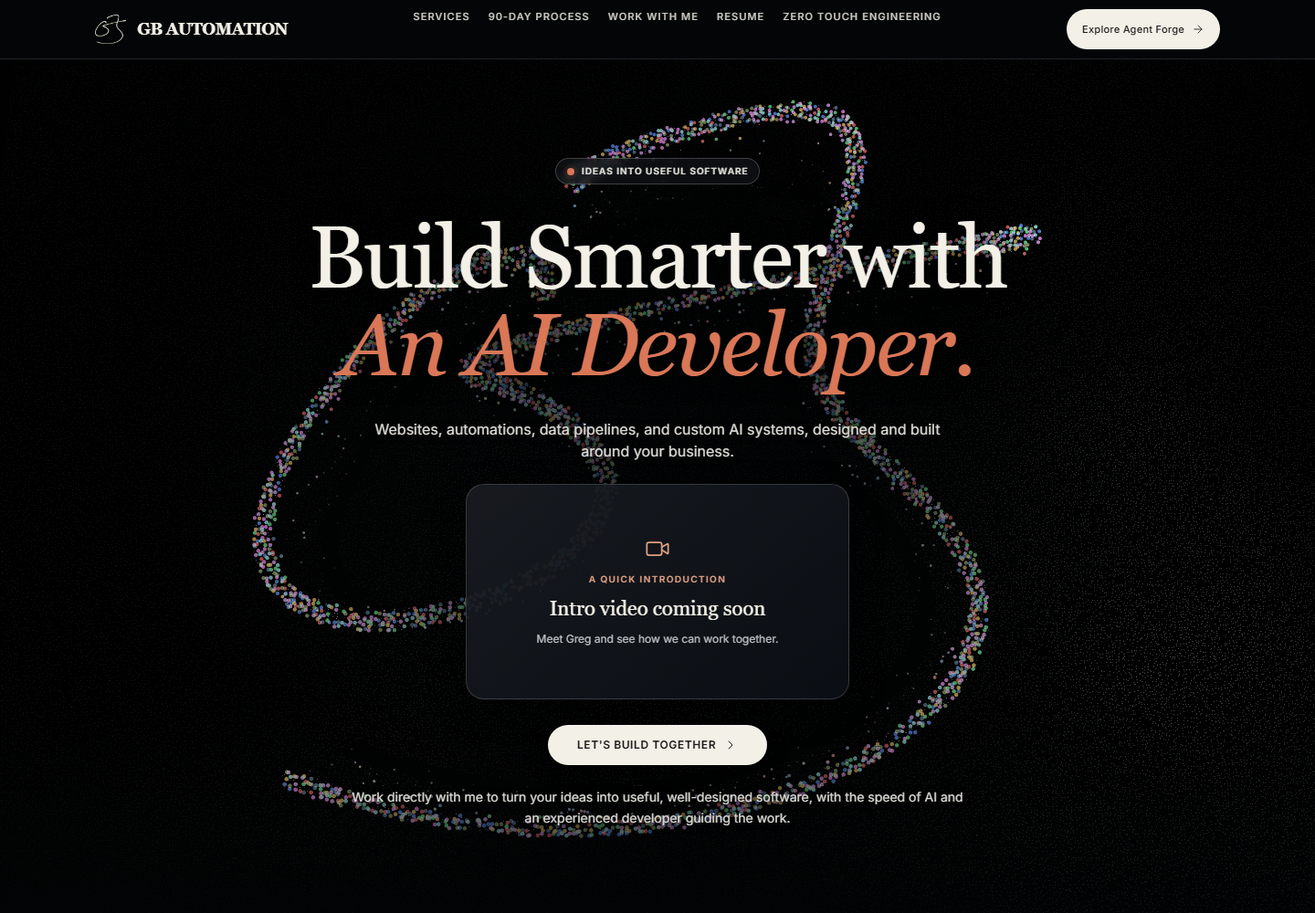
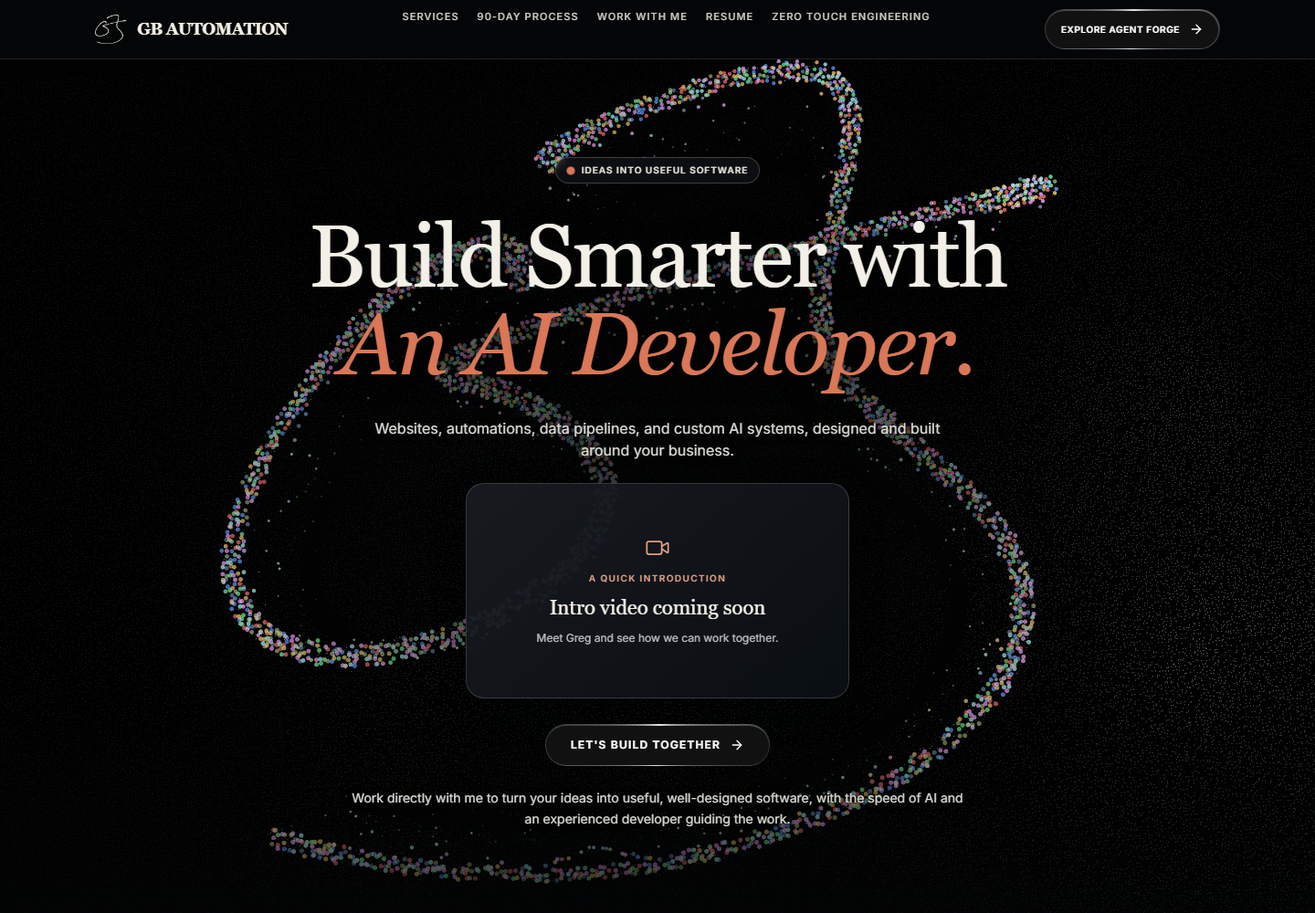
Add monochrome animated CTAs and publishable Forge workspace preview

diff --git a/public/forge/app.js b/public/forge/app.js
@@ -1,5 +1,6 @@
 'use strict';
 const $=id=>document.getElementById(id),app=$('app');
+const previewOnly=window.FORGE_PREVIEW_ONLY===true;
 const e=x=>String(x??'').replace(/[&<>"']/g,c=>({'&':'&amp;','<':'&lt;','>':'&gt;','"':'&quot;',"'":'&#39;'}[c]));
 let token=sessionStorage.getItem('forge.session')||'',catalog=[],local=false,live=false,operatorEmail='',draft=null,step=0,answers={},business={summary:'',website:null},email='',pendingKey=null,pollTimer;
 let initial=true,questions=[],loginMode='create',identity=null;
@@ -11,7 +12,21 @@ function notice(error){if(error.message==='unauthorized'){loginMode=draft?'resum
 function focus(){app.focus();window.scrollTo({top:0,behavior:'instant'});}
 function button(id,fn){$(id)?.addEventListener('click',async ev=>{const b=ev.currentTarget;b.disabled=true;try{await fn();}catch(err){notice(err);if(err.message==='version_conflict'&&draft){draft=await api({action:'read',draft_id:draft.draft_id});showDraft();}}finally{b.disabled=false;}});}
 function stash(){if(initial)sessionStorage.setItem('forge.initial',JSON.stringify({business,answers,step}));}
-function landing(){clearTimeout(pollTimer);app.innerHTML=`<div class="hero"><div><p class="eyebrow">YOUR BUSINESS. YOUR AI TEAM.</p><h1>What if the right team was already taking shape?</h1><p class="lead">Tell us what slows your business down. We’ll design an AI team around it, with clear roles, a practical workflow, and a plan for getting started.</p><button id="start">Design my AI team <span aria-hidden="true">↗</span></button><div class="meta"><span>A short business brief</span><span>Up to two focused follow-ups</span><span>Free design by email</span></div></div><aside class="sample" aria-label="Example team design"><p class="eyebrow">EXAMPLE / A SERVICE BUSINESS</p><h2>Every follow-up, accounted for.</h2><article><span class="number">01</span><strong>Workflow coordinator</strong><small>Organizes open requests and prepares next steps.</small></article><article><span class="number">02</span><strong>Quality reviewer</strong><small>Checks the draft before your team acts.</small></article><p class="hint">Your design includes proposed roles, handoffs, assumptions and a draft configuration. Connections and activation come later.</p></aside></div>`;button('start',()=>{initial=true;questions=catalog;step=0;wizard();});focus();}
+function landing(){clearTimeout(pollTimer);app.innerHTML=`<div class="hero"><div><p class="eyebrow">YOUR BUSINESS. YOUR AI TEAM.</p><h1>What if the right team was already taking shape?</h1><p class="lead">Tell us what slows your business down. We’ll design an AI team around it, with clear roles, a practical workflow, and a plan for getting started.</p><button id="start" class="animated-cta"><span class="animated-cta-shimmer" aria-hidden="true"></span><span class="animated-cta-label">Design my AI team <span aria-hidden="true">↗</span></span></button><div class="meta"><span>A short business brief</span><span>Up to two focused follow-ups</span><span>Free design by email</span></div></div><aside class="sample" aria-label="Example team design"><p class="eyebrow">EXAMPLE / A SERVICE BUSINESS</p><h2>Every follow-up, accounted for.</h2><article><span class="number">01</span><strong>Workflow coordinator</strong><small>Organizes open requests and prepares next steps.</small></article><article><span class="number">02</span><strong>Quality reviewer</strong><small>Checks the draft before your team acts.</small></article><p class="hint">Your design includes proposed roles, handoffs, assumptions and a draft configuration. Connections and activation come later.</p></aside></div><section class="workspace-overview" id="forge-windows" aria-labelledby="forge-windows-heading"><p class="eyebrow">INSIDE THE WORKSPACE</p><h2 id="forge-windows-heading">A window for every part of the work.</h2><p class="workspace-intro">Explore the 13 windows in the Agent Forge workspace design. Your free intake creates a team design and configuration preview. Connecting tools and activating the workspace come afterward.</p><ul class="workspace-window-list"><li><strong>Skills Library</strong><span>The capabilities this expert can use.</span></li><li><strong>Justfile Commands</strong><span>Real recipes, inputs, and sample execution.</span></li><li><strong>Agent Presence</strong><span>The selected expert and its configured avatar.</span></li><li><strong>Conversation</strong><span>A focused conversation with the expert.</span></li><li><strong>Working Canvas</strong><span>The document or preview currently in focus.</span></li><li><strong>Proposals</strong><span>Review suggested work before it begins.</span></li><li><strong>Setup &amp; Quality Checks</strong><span>Configuration completeness and verification evidence.</span></li><li><strong>Expert Configuration</strong><span>Purpose, model, operating limits, and instructions.</span></li><li><strong>Second Brain</strong><span>Context, saved decisions, and source documents.</span></li><li><strong>Tasks &amp; Workstream</strong><span>An expert-scoped view of work and dependencies.</span></li><li><strong>Artifacts</strong><span>Find outputs and the sources behind them.</span></li><li><strong>Run Console</strong><span>Follow command output and execution history.</span></li><li><strong>Changes &amp; Approvals</strong><span>Compare and review the exact proposed change.</span></li></ul></section>`;button('start',()=>{initial=true;questions=catalog;step=0;wizard();});focus();}
+function preview(){
+ landing();
+ $('resume').hidden=true;
+ $('operator-link').hidden=true;
+ $('preview-banner').textContent='Agent Forge preview. Automated team design and email delivery are coming soon.';
+ $('preview-banner').hidden=false;
+ app.querySelector('h1').textContent='A workspace built around your AI team.';
+ app.querySelector('.lead').textContent='Explore how Agent Forge brings expert roles, shared context, and practical workflows together. For a team designed around your business, start a conversation with Greg.';
+ $('start').outerHTML='<a class="animated-cta" href="/#contact"><span class="animated-cta-shimmer" aria-hidden="true"></span><span class="animated-cta-label">Talk about your AI team <span aria-hidden="true">↗</span></span></a>';
+ app.querySelector('.meta').innerHTML='<span>Expert roles</span><span>Connected workflows</span><span>Configuration preview</span>';
+ app.querySelector('.sample .hint').textContent='An example of proposed roles and handoffs. A tailored design and tool connections are part of a future onboarding conversation.';
+ app.querySelector('.workspace-intro').textContent='Explore the 13 windows in the Agent Forge workspace design, from expert configuration to reviewing the work your team produces.';
+ $('retention-note').textContent='Workspace preview · No intake data collected';
+}
 function wizard(){clearTimeout(pollTimer);const total=questions.length+(initial?1:0),q=initial&&step===0?null:questions[step-(initial?1:0)];const value=q?answers[q.question_id]||'':business.summary;const round=draft?Math.min(3,draft.usage.submitted_batches+1):1;
  app.innerHTML=`<section class="wizard"><div class="step-label"><span>Round ${round} of up to 3</span><span>Question ${step+1} of ${total}</span></div><div class="progress"><span style="width:${100*(step+1)/total}%"></span></div><p class="eyebrow">${q?'SHAPE YOUR TEAM':'A LITTLE CONTEXT'}</p><h1>${q?e(labels[q.question_id]||q.label):'Tell us a little about your business.'}</h1><p>${q?e(q.reason):'What do you do, and who do you help? A few sentences is plenty.'}</p><label for="answer">${q?'Your answer':'Business description'}</label><textarea id="answer" maxlength="2000" placeholder="A short description is enough…">${e(value)}</textarea>${!q?`<label for="website">Company website <span class="hint">(optional)</span></label><input id="website" type="url" value="${e(business.website)}" placeholder="https://example.com">`:`<div class="choices">${q.choices.map((x,i)=>`<button class="choice" data-choice="${i}">${e(x.length>75?x.slice(0,72)+'…':x)}</button>`).join('')}<button id="unknown" class="choice">I’m not sure</button></div>`}<p class="hint">Describe your work and tools. Please leave out passwords, access tokens and sensitive customer records.</p><div class="actions"><button id="back" class="quiet">Back</button><button id="next">${step===total-1?'Review answers':'Continue'} →</button></div></section>`;
  const capture=()=>{if(q)answers[q.question_id]=$('answer').value.trim();else{business.summary=$('answer').value.trim();business.website=$('website').value.trim()||null;}stash();};
@@ -38,4 +53,4 @@ async function result(){clearTimeout(pollTimer);const artifact=await api({action
  button('delete',async()=>{if(!confirm('Delete this saved design and its answers? Your free-design allowance remains until its 30-day window expires.'))return;await api({action:'delete',draft_id:draft.draft_id});draft=null;landing();});focus();}
 async function resume(){if(!token){loginMode='resume';login();return;}identity=await api({action:'session'});const drafts=await api({action:'list'});const id=location.pathname.startsWith('/forge/designs/')?location.pathname.split('/').pop():null;draft=id?drafts.find(d=>d.draft_id===id):drafts[0];if(draft)showDraft();else{notice(Error('not_found'));landing();}}
 $('resume').onclick=()=>{loginMode='resume';resume().catch(err=>{notice(err);login();});};
-(async()=>{try{const data=await api({action:'catalog'});catalog=data.questions;local=data.local_preview;live=!!data.live_pilot;operatorEmail=data.operator_email||'';if(live)$('preview-banner').textContent='Live pilot: real Gmail and OpenRouter. Limited to your test accounts.';$('preview-banner').hidden=!local;$('operator-link').hidden=!local;try{const saved=JSON.parse(sessionStorage.getItem('forge.initial'));if(saved){business=saved.business;answers=saved.answers;}}catch{}if(location.pathname==='/operator'){loginMode='operator';login();}else if(location.pathname.startsWith('/forge/designs/'))await resume();else landing();}catch(err){notice(err);app.innerHTML='<h1>The workshop is temporarily unavailable.</h1><p>Please try again shortly.</p>';}})();
+(async()=>{if(previewOnly){preview();return;}try{const data=await api({action:'catalog'});catalog=data.questions;local=data.local_preview;live=!!data.live_pilot;operatorEmail=data.operator_email||'';if(live)$('preview-banner').textContent='Live pilot: real Gmail and OpenRouter. Limited to your test accounts.';$('preview-banner').hidden=!local;$('operator-link').hidden=!local;try{const saved=JSON.parse(sessionStorage.getItem('forge.initial'));if(saved){business=saved.business;answers=saved.answers;}}catch{}if(location.pathname==='/operator'){loginMode='operator';login();}else if(location.pathname.startsWith('/forge/designs/'))await resume();else landing();}catch(err){notice(err);app.innerHTML='<h1>The workshop is temporarily unavailable.</h1><p>Please try again shortly.</p>';}})();

diff --git a/public/forge/animated-cta.css b/public/forge/animated-cta.css
@@ -1,0 +1,71 @@
+/* Adapted from Greg's animated-gradient-cta-button.html. No external scripts.
+   Explicit light/dark appearances share the same reversible interaction. */
+.animated-cta {
+  --cta-bg:#111111; --cta-fg:#ffffff;
+  --cta-hover-bg:#ffffff; --cta-hover-fg:#111111;
+  --cta-shimmer:255,255,255; --cta-glow:255,255,255;
+  --cta-edge-strong:rgba(255,255,255,.9); --cta-edge-soft:rgba(255,255,255,.18);
+  --cta-ease:cubic-bezier(.16,1,.3,1);
+  position:relative; isolation:isolate; display:inline-flex;
+  align-items:center; justify-content:center; min-height:44px; max-width:100%;
+  padding:14px 28px; border:0; border-radius:999px; overflow:hidden;
+  background:transparent; color:var(--cta-fg); text-decoration:none;
+  font-family:inherit; font-size:12px; line-height:1.5; font-weight:600;
+  letter-spacing:.1em; text-transform:uppercase; text-align:center;
+  cursor:pointer; touch-action:manipulation;
+  transition:color .4s var(--cta-ease),box-shadow .4s,transform .4s var(--cta-ease);
+}
+[data-mode="light"] .animated-cta, [data-theme="light"] .animated-cta,
+.animated-cta[data-appearance="light"] {
+  --cta-bg:#ffffff; --cta-fg:#111111;
+  --cta-hover-bg:#111111; --cta-hover-fg:#ffffff;
+  --cta-shimmer:0,0,0; --cta-glow:0,0,0;
+  --cta-edge-strong:rgba(0,0,0,.8); --cta-edge-soft:rgba(0,0,0,.16);
+}
+[data-mode="dark"] .animated-cta, [data-theme="dark"] .animated-cta,
+.animated-cta[data-appearance="dark"] {
+  --cta-bg:#111111; --cta-fg:#ffffff;
+  --cta-hover-bg:#ffffff; --cta-hover-fg:#111111;
+  --cta-shimmer:255,255,255; --cta-glow:255,255,255;
+  --cta-edge-strong:rgba(255,255,255,.9); --cta-edge-soft:rgba(255,255,255,.18);
+}
+.animated-cta::before {
+  content:""; position:absolute; top:50%; left:50%; width:300%; aspect-ratio:1;
+  z-index:-2; pointer-events:none; transform-origin:center;
+  background:conic-gradient(var(--cta-edge-strong),var(--cta-edge-soft) 25%,var(--cta-edge-strong) 50%,var(--cta-edge-soft) 75%,var(--cta-edge-strong));
+  animation:gb-cta-spin 4s linear infinite;
+}
+.animated-cta::after {
+  content:""; position:absolute; inset:1.5px; border-radius:inherit; z-index:-1;
+  pointer-events:none; background:var(--cta-bg); transition:background .4s var(--cta-ease);
+}
+.animated-cta .animated-cta-shimmer {
+  position:absolute; inset:-50% auto auto -50%; width:40%; height:200%; z-index:0;
+  pointer-events:none; color:inherit;
+  background:radial-gradient(ellipse at center,rgba(var(--cta-shimmer),.24),transparent 70%);
+  animation:gb-cta-shimmer 3.5s ease-in-out infinite;
+}
+.animated-cta .animated-cta-label { position:relative; z-index:1; display:inline-flex; align-items:center; justify-content:center; gap:10px; color:inherit; }
+.animated-cta .animated-cta-label svg { flex-shrink:0; width:16px; height:16px; transition:transform .4s var(--cta-ease); }
+.animated-cta:focus-visible { outline:2px solid currentColor; outline-offset:5px; }
+.animated-cta:focus-visible:not(:disabled) { color:var(--cta-hover-fg); transform:translateY(-2px); box-shadow:0 0 24px rgba(var(--cta-glow),.16); }
+.animated-cta:focus-visible:not(:disabled)::after { background:var(--cta-hover-bg); }
+.animated-cta:focus-visible:not(:disabled) .animated-cta-label svg { transform:translateX(3px); }
+@media(hover:hover) {
+  .animated-cta:hover:not(:disabled) { background:transparent; color:var(--cta-hover-fg); transform:translateY(-2px); box-shadow:0 0 25px rgba(var(--cta-glow),.2),0 0 60px rgba(var(--cta-glow),.08); }
+  .animated-cta:hover:not(:disabled)::after { background:var(--cta-hover-bg); }
+  .animated-cta:hover:not(:disabled)::before { animation-duration:2s; }
+  .animated-cta:hover:not(:disabled) .animated-cta-shimmer { animation-duration:1.8s; }
+  .animated-cta:hover:not(:disabled) .animated-cta-label svg { transform:translateX(3px); }
+}
+.animated-cta:disabled { cursor:wait; opacity:.5; transform:none; box-shadow:none; }
+.animated-cta:disabled::before,.animated-cta:disabled .animated-cta-shimmer { animation-play-state:paused; }
+.animated-cta--compact { padding:10px 18px; font-size:10px; letter-spacing:.06em; }
+@keyframes gb-cta-spin { from{transform:translate(-50%,-50%) rotate(0)} to{transform:translate(-50%,-50%) rotate(360deg)} }
+@keyframes gb-cta-shimmer { 0%{transform:translateX(0);opacity:0} 15%{opacity:1} 50%{transform:translateX(425%);opacity:1} 65%,100%{transform:translateX(425%);opacity:0} }
+@media(prefers-reduced-motion:reduce) {
+  .animated-cta,.animated-cta::before,.animated-cta::after,.animated-cta * { animation:none!important; transition:none!important; }
+  .animated-cta::before { transform:translate(-50%,-50%) rotate(45deg); }
+  .animated-cta .animated-cta-shimmer { display:none; }
+  .animated-cta:hover:not(:disabled),.animated-cta:focus-visible:not(:disabled) { transform:none; }
+}

diff --git a/src/components/VideoHero.jsx b/src/components/VideoHero.jsx
@@ -1,5 +1,6 @@
 import { useEffect, useRef, useState } from "react"
 import HeroIntroVideo from "./HeroIntroVideo"
+import AnimatedCta from "./AnimatedCta"
 
 export default function VideoHero() {
   const [isRevealed, setIsRevealed] = useState(false)
@@ -58,13 +59,9 @@ export default function VideoHero() {
             </a>
           </nav>
 
-          <a href="/forge/" className="flex shrink-0 items-center gap-2 px-4 py-1.5 bg-white border border-[#D6D4C8] text-[#191919] text-[11px] font-medium tracking-wide rounded-full hover:bg-[#191919] hover:text-[#F3F1E7] transition-all shadow-sm hover-mini group">
+          <AnimatedCta href="/forge/" className="animated-cta--compact shrink-0">
             Explore Agent Forge
-            <svg xmlns="http://www.w3.org/2000/svg" width="14" height="14" viewBox="0 0 24 24" fill="none" stroke="currentColor" strokeWidth="1.5" strokeLinecap="round" strokeLinejoin="round" className="group-hover:translate-x-0.5 transition-transform">
-              <path d="M5 12h14"></path>
-              <path d="m12 5 7 7-7 7"></path>
-            </svg>
-          </a>
+          </AnimatedCta>
         </div>
       </header>
 
@@ -96,18 +93,9 @@ export default function VideoHero() {
         <HeroIntroVideo />
 
         <div className={`flex flex-col sm:flex-row gap-4 w-full sm:w-auto items-center justify-center transition-all duration-700 delay-300 ${isRevealed ? 'opacity-100 translate-y-0' : 'opacity-0 translate-y-5'}`}>
-          <button
-            id="home-discovery"
-            onClick={scrollToContact}
-            className="relative group overflow-hidden rounded-full bg-[#191919] hover:bg-[#333] transition-all hover-mini shadow-lg shadow-[#191919]/10 w-full sm:w-auto"
-          >
-            <span className="inline-flex h-full w-full cursor-pointer items-center justify-center rounded-full px-8 py-3.5 text-xs font-semibold uppercase tracking-wider text-[#F3F1E7]">
-              Let's build together
-              <svg xmlns="http://www.w3.org/2000/svg" width="16" height="16" viewBox="0 0 24 24" fill="none" stroke="currentColor" strokeWidth="1.5" strokeLinecap="round" strokeLinejoin="round" className="ml-2">
-                <path d="m9 18 6-6-6-6"></path>
-              </svg>
-            </span>
-          </button>
+          <AnimatedCta id="home-discovery" onClick={scrollToContact} className="w-full sm:w-auto">
+            Let's build together
+          </AnimatedCta>
         </div>
         <p className="text-sm max-w-2xl mt-6 leading-relaxed">
           Work directly with me to turn your ideas into useful, well-designed software, with the speed of AI and an experienced developer guiding the work.

diff --git a/src/components/AgentForgePreview.jsx b/src/components/AgentForgePreview.jsx
@@ -1,4 +1,4 @@
-import { ArrowUpRight } from 'lucide-react';
+import AnimatedCta from './AnimatedCta';
 
 export default function AgentForgePreview() {
   return (
@@ -8,9 +8,9 @@ export default function AgentForgePreview() {
           <span className="home-eyebrow">Built by GBAutomation</span>
           <h2 id="forge-heading" className="text-4xl md:text-5xl font-serif font-medium tracking-tight mt-4 mb-6">Meet Agent Forge.</h2>
           <p className="text-sm md:text-base text-[#5C5C5C] leading-relaxed mb-7">
-            Explore one example of what we can build together. Tell Agent Forge how your business works and get a tailored AI team design, workflow, and configuration preview by email.
+            Explore one example of what we can build together: an AI workspace for expert agents, connected workflows, and shared context. Preview Agent Forge, then talk with Greg about a team designed around your business.
           </p>
-          <a className="home-showcase-link" href="/forge/">Explore Agent Forge <ArrowUpRight size={18} aria-hidden="true" /></a>
+          <AnimatedCta href="/forge/">Explore Agent Forge</AnimatedCta>
         </div>
         <figure className="forge-preview-frame glass-panel">
           <div className="forge-preview-chrome" aria-hidden="true">
@@ -22,7 +22,7 @@ export default function AgentForgePreview() {
             alt="Agent Forge workspace concept showing an expert profile, configuration, and work area"
             width="2160" height="1410" loading="lazy" decoding="async"
           />
-          <figcaption>Workspace design preview <span>Start with your free team design</span></figcaption>
+          <figcaption>Workspace design preview <span>Automated team design coming soon</span></figcaption>
         </figure>
       </div>
     </section>

diff --git a/src/components/ParticleBackground.css b/src/components/ParticleBackground.css
@@ -32,10 +32,7 @@
 .particle-home .input-field { background:#060a1099; border-color:#ffffff30; color:#F3F1E7; }
 .particle-home .input-field:focus { border-color:#77DCEA; box-shadow:0 0 0 1px #77DCEA; background:#0b1018; }
 .particle-home .input-field::placeholder { color:#a4abb0; }
-.particle-home #home-header > div > a { background:#F3F1E7; color:#191919; }
 .particle-home-content > section h2 { text-shadow:0 2px 22px #000; }
-.particle-home #contact button[type="submit"] { background:#F3F1E7; color:#191919; }
-.particle-home #contact button[type="submit"] span { color:inherit; }
 .particle-scene-surface { position:absolute; inset:0; width:100%; height:100%; border:0; z-index:0; pointer-events:none; }
 .particle-scrim { position:absolute; inset:0; z-index:1; pointer-events:none;
   background:radial-gradient(ellipse at 50% 53%,rgba(3,4,5,.80) 0%,rgba(3,4,5,.62) 28%,rgba(3,4,5,.10) 64%),linear-gradient(180deg,rgba(3,4,5,.25),transparent 25%,transparent 75%,rgba(3,4,5,.8)); }
@@ -43,9 +40,6 @@
 .particle-home #home-hero-copy p { color:#deddd8; text-shadow:0 1px 9px #000; }
 .particle-home #home-status { background:rgba(16,19,23,.72); border-color:rgba(243,241,231,.22); }
 .particle-home #home-status > span:last-child { color:#e0dfd8; }
-.particle-home #home-discovery { background:#F3F1E7; box-shadow:0 4px 24px #0005; }
-.particle-home #home-discovery span { color:#191919; }
-.particle-home #home-discovery:hover { background:white; }
 .particle-home #home-header { background:rgba(5,7,10,.74); border-color:#ffffff1f; }
 .particle-home #home-header .font-serif { color:#F3F1E7; }
 .particle-home #home-header img { filter:invert(1); mix-blend-mode:screen; }

diff --git a/public/forge/index.html b/public/forge/index.html
@@ -16,6 +16,7 @@
     @media(prefers-reduced-motion:reduce) { *,*::before,*::after { animation:none!important; transition:none!important; scroll-behavior:auto!important; } }
   </style>
   <link rel="stylesheet" href="style.css">
+  <link rel="stylesheet" href="animated-cta.css">
   <script src="theme.js" defer></script><script src="config.js" defer></script><script src="app.js" defer></script>
 </head>
 <body class="particle-home" data-gbauto-theme="gbauto-theme.v1" data-gbauto-surface="forge-intake">
@@ -31,7 +32,7 @@
     <div id="preview-banner" hidden>Local preview. Model responses and email delivery are simulated.</div>
     <main id="app" tabindex="-1"><p>Loading your workshop...</p></main>
     <div id="message" role="status" aria-live="polite"></div>
-    <footer><span>Designed around the work you do.</span><span>Private by default · Saved for 30 days</span><a href="/operator" id="operator-link" hidden>Operator preview</a></footer>
+    <footer><span>Designed around the work you do.</span><span id="retention-note">Private by default · Saved for 30 days</span><a href="/operator" id="operator-link" hidden>Operator preview</a></footer>
   </div>
 </body>
 </html>

diff --git a/public/forge/style.css b/public/forge/style.css
@@ -77,3 +77,13 @@ footer a{color:var(--terracotta)}.login{max-width:580px;margin:auto}.login h1{fo
  .actions button{flex:1}.result-actions button{flex:1 1 135px}.step-label{gap:12px}
 }
 @media(prefers-reduced-motion:reduce){*,*::before,*::after{animation:none!important;transition:none!important;scroll-behavior:auto!important}}
+
+.workspace-overview{margin-top:88px;padding:48px 0 12px;border-top:1px solid #ffffff26}
+.workspace-overview h2{max-width:650px;margin:12px 0 20px}
+.workspace-intro{max-width:720px;font-size:14px;line-height:1.8;margin-bottom:30px}
+.workspace-window-list{display:grid;grid-template-columns:1fr 1fr;gap:18px 64px;padding-left:22px;margin:0;list-style:disc}
+.workspace-window-list li{padding-left:4px;break-inside:avoid}
+.workspace-window-list li::marker{color:#b9b9b9}
+.workspace-window-list strong{display:block;font-size:14px;font-weight:600;color:var(--cream-bg)}
+.workspace-window-list span{display:block;font-size:13px;line-height:1.7;color:#aeb4b8;margin-top:3px}
+@media(max-width:640px){.workspace-overview{margin-top:48px;padding-top:32px}.workspace-window-list{grid-template-columns:1fr;gap:16px}.workspace-overview h2{font-size:29px}}

diff --git a/src/components/ContactForm.jsx b/src/components/ContactForm.jsx
@@ -1,5 +1,6 @@
 import { useState, useEffect, useRef } from 'react';
 import { useForm } from 'react-hook-form';
+import AnimatedCta from './AnimatedCta';
 import { insertContactSubmission } from '../lib/supabaseOps';
 
 export default function ContactForm() {
@@ -146,13 +147,13 @@ export default function ContactForm() {
             )}
           </div>
 
-          <button
+          <AnimatedCta
             type="submit"
             disabled={submitStatus === 'submitting'}
-            className="w-full py-4 mt-8 bg-[#191919] text-[#F3F1E7] font-semibold text-sm uppercase tracking-wider rounded-lg hover:bg-[#333] transition-all shadow-lg hover-mini disabled:opacity-50 disabled:cursor-not-allowed"
+            className="w-full mt-8"
           >
             {submitStatus === 'submitting' ? 'Sending...' : 'Send an inquiry'}
-          </button>
+          </AnimatedCta>
 
           {submitStatus === 'success' && (
             <div className="bg-[#E6E4D9] border-2 border-[#D97757] rounded-2xl p-6 text-center">

diff --git a/src/components/HomeShowcase.css b/src/components/HomeShowcase.css
@@ -6,8 +6,6 @@
 .particle-home .hero-intro-title { display:block; margin:8px 0; font-family:Georgia,serif; font-size:22px; color:#F3F1E7; }
 .particle-home .hero-intro-note { display:block; font-size:12px; line-height:1.5; color:#bdc1c5; }
 .particle-home .forge-showcase { display:grid; grid-template-columns:minmax(0,.8fr) minmax(0,1.2fr); gap:48px; align-items:center; }
-.particle-home .home-showcase-link { display:inline-flex; align-items:center; gap:14px; padding:14px 22px; border-radius:999px; background:#F3F1E7; color:#191919; font-size:12px; font-weight:600; transition:background .2s; }
-.particle-home .home-showcase-link:hover { background:white; }
 .particle-home .forge-preview-frame { margin:0; min-width:0; border-radius:18px; overflow:hidden; }
 .particle-home .forge-preview-chrome { display:flex; align-items:center; gap:18px; padding:12px 16px; border-bottom:1px solid #ffffff20; font-size:10px; color:#b5bbc0; }
 .particle-home .forge-window-dots { display:flex; gap:5px; }

diff --git a/src/components/AnimatedCta.jsx b/src/components/AnimatedCta.jsx
@@ -1,0 +1,11 @@
+import { ArrowRight } from 'lucide-react';
+
+export default function AnimatedCta({ children, href, className = '', ...props }) {
+  const Element = href ? 'a' : 'button';
+  return (
+    <Element {...props} {...(href ? { href } : {})} className={`animated-cta ${className}`}>
+      <span className="animated-cta-shimmer" aria-hidden="true" />
+      <span className="animated-cta-label">{children}<ArrowRight aria-hidden="true" /></span>
+    </Element>
+  );
+}

diff --git a/index.html b/index.html
@@ -15,6 +15,7 @@
     <!-- SEO & Description -->
     <meta name="description" content="Work with Greg Black to build websites, automations, data pipelines and custom AI systems around your business. Explore Agent Forge." />
     <title>GB Automation | Build smarter with an AI developer</title>
+    <link rel="stylesheet" href="/forge/animated-cta.css" />
 
     <!-- Preload critical resources -->
     <link rel="preconnect" href="https://res.cloudinary.com" />

diff --git a/public/forge/config.js b/public/forge/config.js
@@ -1,1 +1,2 @@
 window.FORGE_API="/api/forge-intake";
+window.FORGE_PREVIEW_ONLY=true;
